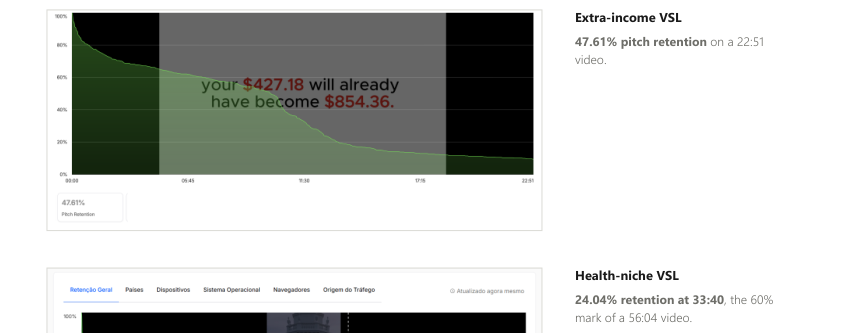
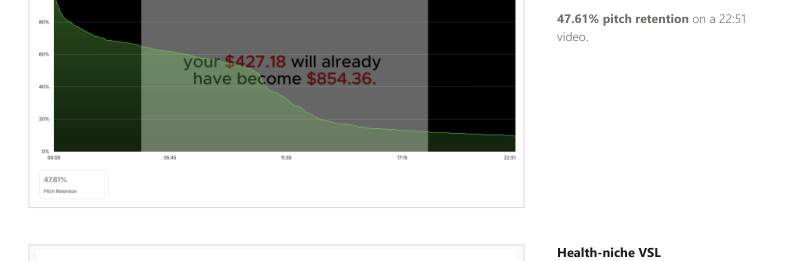
Show HTTPS retention print on card and tighten crop

diff --git a/src/data/works.ts b/src/data/works.ts
@@ -123,16 +123,10 @@ export const works: WorkItem[] = [
     market: 'HTTPS-47',
     vertical: 'infoproducts',
     description:
-      'HTTPS retention on VTurb (middle curve on the retention print) — 47.61% on a 22:51 video · 1,526 views · 658 plays.',
+      'HTTPS retention print from VTurb — 47.61% on a 22:51 video (middle curve on the retention report).',
     driveFileId: '',
     localPreviewUrl: '/proof/https-retention-print.png',
     thumbnail: '/proof/https-retention-print.png',
-    cardHighlight: {
-      value: '47.61%',
-      label: 'HTTPS retention',
-      detail: 'Middle curve · 22:51 VSL · VTurb print',
-      tone: 'blue',
-    },
     featured: true,
   },
   {
